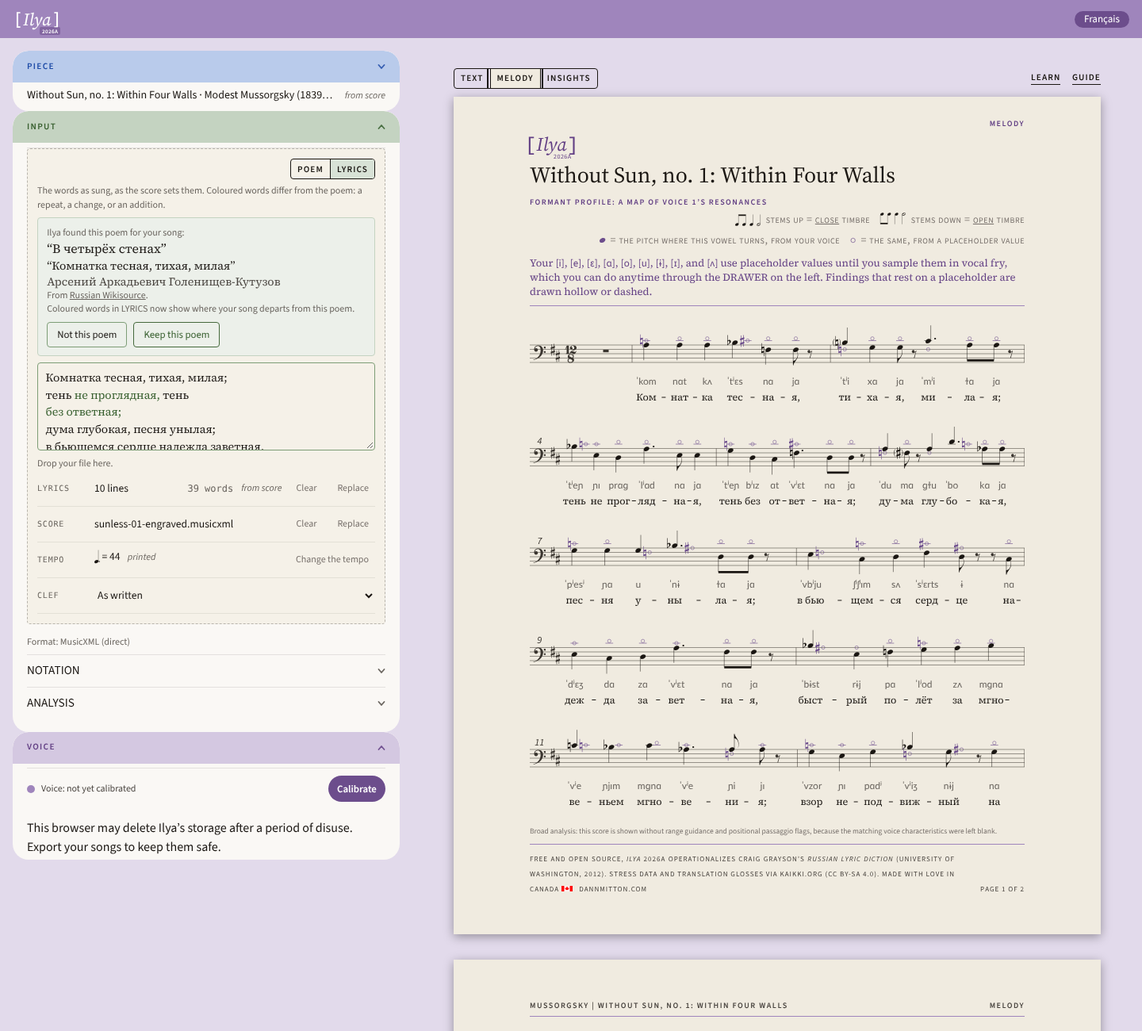
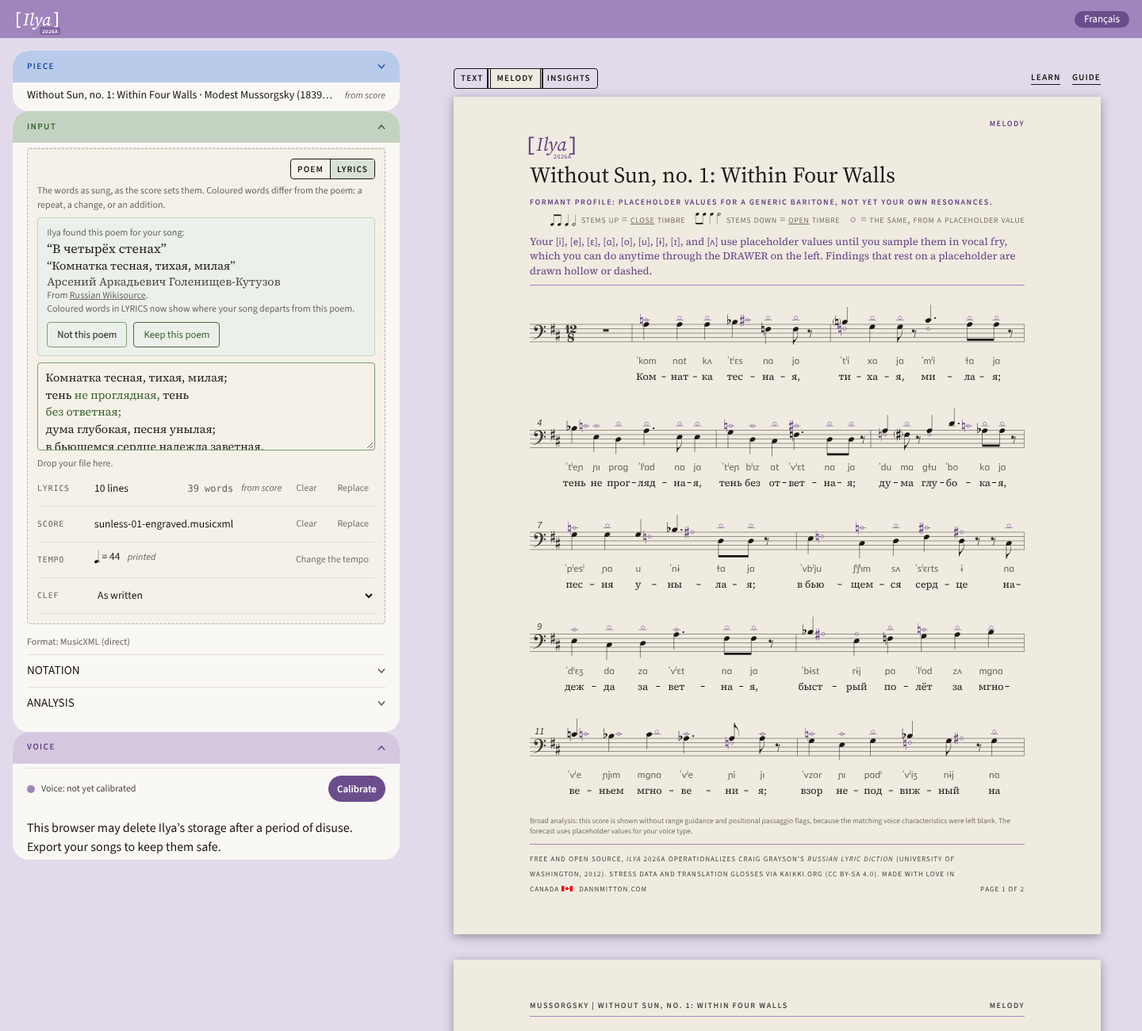
Row 166 step 6: the ratified placeholder strings, MELODY's subtitle, the legend without a filled head
Claude-Session: https://claude.ai/code/session_01Vk7wM55vdg3gcDddWTK5ME

Changed region(s): [[0.4688, 0.1846, 0.9062, 0.6769], [0.4688, 0.7077, 0.9062, 0.8]]

diff --git a/apps/web/src/lib/i18n.ts b/apps/web/src/lib/i18n.ts
@@ -16,7 +16,7 @@
    tree on 2026-11-02 (consistency batch 2). Paths are under `apps/web/src/`;
    a prefix is listed with the files that use it most and its key count.
 
-   This file holds 1,190 keys.
+   This file holds 1,191 keys.
 
    A key built at run time (`watch.key.letter.${letter}`, `comment.<register>.<part>`)
    has no literal reference, so a search for the whole key can come back empty
@@ -58,7 +58,7 @@
    paper.          4  lib/components/Paper/TitlePage.svelte, lib/components/Paper/SubsequentPage.svelte, lib/text/text-header.ts, lib/one-action.ts
    placeholder.    7  lib/analysis/placeholder-line.ts
    portrait.       2  lib/components/ReadingAid.svelte, routes/+page.svelte
-   profile.       34  lib/markup/MarkupPane.svelte, lib/markup/profile-status.ts, lib/analysis/placeholder-line.ts
+   profile.       35  lib/markup/MarkupPane.svelte, lib/markup/profile-status.ts, lib/analysis/placeholder-line.ts
    provenance.     5  no literal consumer found
    recognize.      4  routes/+page.svelte
    replace.        4  routes/+page.svelte
@@ -1021,8 +1021,8 @@ const strings: Record<string, Record<Language, string>> = {
 	// Composed from parts so EN and FR share one structure; the two-item
 	// join is language-specific (EN "a and b", FR "a ni b": "sans X ni Y").
 	'analysis.broad.body':         { en: 'Broad analysis: this score is shown without {items}, because the matching voice characteristics were left blank. The forecast still reflects your measured resonances.', fr: 'Analyse large\u00a0: cette partition est présentée sans {items}, car les caractéristiques vocales correspondantes ont été laissées vides. La prévision reflète tout de même vos résonances mesurées.' },
-	// DESK DEFAULT, UNRATIFIED (row 166): the broad note for a voice that has only placeholders, which cannot say the forecast reflects measured resonances. The sentence is the one above, less its last clause. Dann's eye.
-	'analysis.broad.body.generic': { en: 'Broad analysis: this score is shown without {items}, because the matching voice characteristics were left blank.', fr: 'Analyse large\u00a0: cette partition est présentée sans {items}, car les caractéristiques vocales correspondantes ont été laissées vides.' },
+	// RATIFIED by Dann 2026-11-10 (row 166): the broad note for a voice that has only placeholders; its last sentence says what the forecast uses.
+	'analysis.broad.body.generic': { en: 'Broad analysis: this score is shown without {items}, because the matching voice characteristics were left blank. The forecast uses placeholder values for your voice type.', fr: 'Analyse large\u00a0: cette partition est présentée sans {items}, car les caractéristiques vocales correspondantes ont été laissées vides. La prévision repose sur des valeurs par défaut pour votre type de voix.' },
 	'analysis.broad.itemRange':    { en: 'range guidance',               fr: 'les repères d\u2019ambitus' },
 	'analysis.broad.itemPassaggio': { en: 'positional passaggio flags',   fr: 'le signalement des notes de *passaggio*' },
 	'analysis.broad.join':         { en: 'and',                          fr: 'ni' },
@@ -1458,6 +1458,8 @@ const strings: Record<string, Record<Language, string>> = {
 	//    migrated verbatim from the old inline WITHHELD_COPY object) ──────
 	'profile.subtitleNamed': { en: 'Formant profile: a map of {voice}\u2019s resonances', fr: 'Profil de formants\u00a0: une carte des résonances de la voix \u00ab\u00a0{voice}\u00a0\u00bb' },
 	'profile.subtitleYours': { en: 'Formant profile: a map of your voice\u2019s resonances', fr: 'Profil de formants\u00a0: une carte des résonances de votre voix' },
+	// QUEUE row 166, RATIFIED by Dann 2026-11-10 (12:54 to 12:59): printed in place of the two above when the voice has only placeholder values (`markup/subtitle.ts`).
+	'profile.subtitlePlaceholder': { en: 'Formant profile: placeholder values for a generic {voiceType}, not yet your own resonances.', fr: 'Profil de formants\u00a0: valeurs par défaut pour le type générique {voiceType}, pas encore vos propres résonances.' },
 	'profile.count.1': { en: 'One', fr: 'Une' },
 	'profile.count.2': { en: 'Two', fr: 'Deux' },
 	'profile.count.3': { en: 'Three', fr: 'Trois' },
@@ -1854,15 +1856,15 @@ const strings: Record<string, Record<Language, string>> = {
 	'insights.footnote.tessitura': { en: 'Tessitura by Pacheco’s method: the span from the lowest to the highest pitch sung for at least half as long as the longest-sung pitch. Alberto José Vieira Pacheco, “Angelica Catalani’s Voice According to a Method of Statistical Analysis,” <em>Journal of Singing</em> 69, no. 5 (2013), p. 559.', fr: 'Tessiture selon la méthode de Pacheco\u00a0: l\u2019étendue de la hauteur la plus grave à la hauteur la plus aiguë chantée au moins la moitié du temps de la hauteur la plus longuement chantée. Alberto José Vieira Pacheco, “Angelica Catalani\u2019s Voice According to a Method of Statistical Analysis,” <em>Journal of Singing</em> 69, no. 5 (2013), p. 559. [\u00ab\u00a0La voix d\u2019Angelica Catalani selon une méthode d\u2019analyse statistique\u00a0\u00bb.]' },
 	// Printed by nothing since QUEUE row 50 (2026-10-08: Pacheco 2013 verified); kept for a future unverified source.
 	'insights.citationUnverified': { en: 'CITATION NOT YET VERIFIED',    fr: 'CITATION NON ENCORE VÉRIFIÉE' },
-	'insights.method.typed':       { en: 'Method: computed from your calibration of {date}, the voice characteristics you typed, and the score as sung, repeats taken.', fr: 'Méthode\u00a0: calculé à partir de votre calibration du {date}, des caractéristiques vocales que vous avez indiquées et de la partition telle que chantée, reprises comprises.' },
-	'insights.method.untyped':     { en: 'Method: computed from your calibration of {date} and the score as sung, repeats taken.', fr: 'Méthode\u00a0: calculé à partir de votre calibration du {date} et de la partition telle que chantée, reprises comprises.' },
+	'insights.method.typed':       { en: 'Method: computed from your calibration of {date}, the voice characteristics you typed, and the score as sung, including repeats.', fr: 'Méthode\u00a0: calculé à partir de votre calibration du {date}, des caractéristiques vocales que vous avez indiquées et de la partition telle que chantée, reprises comprises.' },
+	'insights.method.untyped':     { en: 'Method: computed from your calibration of {date} and the score as sung, including repeats.', fr: 'Méthode\u00a0: calculé à partir de votre calibration du {date} et de la partition telle que chantée, reprises comprises.' },
 	'insights.method.silent':      { en: 'Method: no voice has been measured, so nothing on this page is computed from one.', fr: 'Méthode\u00a0: aucune voix n\u2019a été mesurée, donc rien sur cette page n\u2019en est calculé.' },
-	// QUEUE row 166. RATIFIED: the lede, Dann 2026-11-09 16:13 (pinned in `ratified-lines.test.ts`). It is shown only for a
+	// QUEUE row 166. RATIFIED: the lede, Dann 2026-11-09 16:13, cut to its first sentence by Dann 2026-11-10 12:56 (pinned in `ratified-lines.test.ts`). It is shown only for a
 	// voice declared as one of five types and not calibrated (`analyze-score-adapter.ts`, `generic`); {voiceType} is the label the identity line prints.
-	'insights.generic.lede':       { en: 'These findings use placeholder values for a {voiceType}, not your specific voice. You can offer samples of your own vowels in vocal fry using Calibrate in the Voice section of the Drawer.', fr: 'Ces constats reposent sur des valeurs par défaut pour le type {voiceType}, et non sur votre voix en particulier. Vous pouvez fournir des échantillons de vos propres voyelles en friture vocale à l’aide de Calibrer, dans la section Voix du Tiroir.' },
-	// DESK DEFAULT, UNRATIFIED (row 166 step 2): the method line for those findings, which must not name a calibration or its date. Dann's eye, the French above all.
-	'insights.method.generic.typed':   { en: 'Method: computed from placeholder values for your voice type, the voice characteristics you typed, and the score as sung, repeats taken.', fr: 'Méthode\u00a0: calculé à partir de valeurs par défaut pour votre type de voix, des caractéristiques vocales que vous avez indiquées et de la partition telle que chantée, reprises comprises.' },
-	'insights.method.generic.untyped': { en: 'Method: computed from placeholder values for your voice type and the score as sung, repeats taken.', fr: 'Méthode\u00a0: calculé à partir de valeurs par défaut pour votre type de voix et de la partition telle que chantée, reprises comprises.' },
+	'insights.generic.lede':       { en: 'These findings use placeholder values for a {voiceType}, not your specific voice.', fr: 'Ces constats reposent sur des valeurs par défaut pour le type {voiceType}, et non sur votre voix en particulier.' },
+	// RATIFIED by Dann 2026-11-10 (row 166): the method line for those findings, which names no calibration and no date.
+	'insights.method.generic.typed':   { en: 'Method: computed from placeholder values for your voice type, the voice characteristics you typed, and the score as sung, including repeats.', fr: 'Méthode\u00a0: calculé à partir de valeurs par défaut pour votre type de voix, des caractéristiques vocales que vous avez indiquées et de la partition telle que chantée, reprises comprises.' },
+	'insights.method.generic.untyped': { en: 'Method: computed from placeholder values for your voice type and the score as sung, including repeats.', fr: 'Méthode\u00a0: calculé à partir de valeurs par défaut pour votre type de voix et de la partition telle que chantée, reprises comprises.' },
 	'insights.silence.unmeasured': { en: 'No voice has been measured, so this page does not compare this piece with your voice. Withheld until one is:', fr: 'Aucune voix n\u2019a été mesurée, donc cette page ne compare pas cette pièce avec votre voix. Retenu jusqu\u2019à ce qu\u2019une voix le soit\u00a0:' },
 	'insights.silence.findings':   { en: 'Any finding about where this piece may challenge your voice.', fr: 'Toute observation sur les endroits où cette pièce pourrait solliciter votre voix.' },
 	'insights.silence.noScore':    { en: 'No score has been added, so there is nothing of this piece to measure.', fr: 'Aucune partition n\u2019a été ajoutée, il n\u2019y a donc rien de cette pièce à mesurer.' },

diff --git a/apps/web/src/lib/insights/ratified-lines.test.ts b/apps/web/src/lib/insights/ratified-lines.test.ts
@@ -399,15 +399,28 @@ describe('row 97: the three ratified Guide passages are seated', () => {
 	});
 });
 
-/* QUEUE row 166. Dann, 2026-11-09 16:13: the line above INSIGHTS' findings for a voice that has only placeholders. */
-describe('row 166: the placeholder lede', () => {
-	it('English and French, character for character, the apostrophe typographic (U+2019)', () => {
-		expect(t('insights.generic.lede', 'en')).toBe(
-			'These findings use placeholder values for a {voiceType}, not your specific voice. You can offer samples of your own vowels in vocal fry using Calibrate in the Voice section of the Drawer.',
-		);
-		expect(t('insights.generic.lede', 'fr')).toBe(
-			'Ces constats reposent sur des valeurs par défaut pour le type {voiceType}, et non sur votre voix en particulier. Vous pouvez fournir des échantillons de vos propres voyelles en friture vocale à l’aide de Calibrer, dans la section Voix du Tiroir.',
-		);
-		expect(t('insights.generic.lede', 'fr')).toContain('l\u2019aide');
+/* QUEUE row 166. The strings Dann ratified 2026-11-10, 12:54 to 12:59 (the lede was cut to its first sentence at 12:56). Every French colon is
+   preceded by a no-break space (U+00A0), and the apostrophes are typographic where one occurs. */
+describe('row 166: the six ratified placeholder strings', () => {
+	it('the lede: its first sentence only, EN and FR', () => {
+		expect(t('insights.generic.lede', 'en')).toBe('These findings use placeholder values for a {voiceType}, not your specific voice.');
+		expect(t('insights.generic.lede', 'fr')).toBe('Ces constats reposent sur des valeurs par défaut pour le type {voiceType}, et non sur votre voix en particulier.');
+	});
+	it('the MELODY subtitle for a placeholder voice', () => {
+		expect(t('profile.subtitlePlaceholder', 'en')).toBe('Formant profile: placeholder values for a generic {voiceType}, not yet your own resonances.');
+		expect(t('profile.subtitlePlaceholder', 'fr')).toBe('Profil de formants\u00a0: valeurs par défaut pour le type générique {voiceType}, pas encore vos propres résonances.');
+	});
+	it('the method lines: the two placeholder forms, and "including repeats" in the two calibrated forms (French unchanged)', () => {
+		expect(t('insights.method.generic.typed', 'en')).toBe('Method: computed from placeholder values for your voice type, the voice characteristics you typed, and the score as sung, including repeats.');
+		expect(t('insights.method.generic.untyped', 'en')).toBe('Method: computed from placeholder values for your voice type and the score as sung, including repeats.');
+		expect(t('insights.method.generic.typed', 'fr')).toBe('Méthode\u00a0: calculé à partir de valeurs par défaut pour votre type de voix, des caractéristiques vocales que vous avez indiquées et de la partition telle que chantée, reprises comprises.');
+		expect(t('insights.method.generic.untyped', 'fr')).toBe('Méthode\u00a0: calculé à partir de valeurs par défaut pour votre type de voix et de la partition telle que chantée, reprises comprises.');
+		expect(t('insights.method.typed', 'en')).toBe('Method: computed from your calibration of {date}, the voice characteristics you typed, and the score as sung, including repeats.');
+		expect(t('insights.method.untyped', 'en')).toBe('Method: computed from your calibration of {date} and the score as sung, including repeats.');
+		expect(t('insights.method.typed', 'fr')).toContain('reprises comprises.');
+	});
+	it('the broad note for a placeholder voice', () => {
+		expect(t('analysis.broad.body.generic', 'en')).toBe('Broad analysis: this score is shown without {items}, because the matching voice characteristics were left blank. The forecast uses placeholder values for your voice type.');
+		expect(t('analysis.broad.body.generic', 'fr')).toBe('Analyse large\u00a0: cette partition est présentée sans {items}, car les caractéristiques vocales correspondantes ont été laissées vides. La prévision repose sur des valeurs par défaut pour votre type de voix.');
 	});
 });

diff --git a/apps/web/src/lib/markup/MarkupPane.svelte b/apps/web/src/lib/markup/MarkupPane.svelte
@@ -93,6 +93,7 @@
 	import { resolveAdvice } from '$lib/analysis/advice-resolver';
 	import { buildVoiceProfileSnapshot, composeBroadNote, isBroadAnalysis } from '$lib/analysis/analyze-score-adapter';
 	import { placeholderLine, placeholderVowels } from '$lib/analysis/placeholder-line';
+	import { profileSubtitle } from './subtitle';
 	import { loadNotationFont, type LoadedNotationFont } from '$lib/score/notation-fonts';
 	import { drawCrossingRings, selectionAnchor } from '$lib/score/crossing-ring';
 	import { entryGroup, RING_RADIUS, ringBox } from '$lib/score/selection-ring';
@@ -141,7 +142,7 @@
 		composer?: string;
 		poet?: string;
 		/** The declared voice type, which picks the stand-in vowels' starting staff (QUEUE row 17). */
-		voiceType?: string;
+		voiceType?: string; voiceTypeChoice?: import('$lib/voice/profileStore').VoiceTypeChoice;
 		/**
 		 * Engraving preferences from the drawer panel (Dann's ruling,
 		 * 2026-07-13). Defaults to the Appendix-derived values so the
@@ -283,7 +284,7 @@
 		scoreTitle = undefined,
 		composer = '',
 		poet = '',
-		voiceType = undefined,
+		voiceType = undefined, voiceTypeChoice = undefined,
 		engraving = ENGRAVING_DEFAULTS,
 		onrendered = undefined,
 		onpagesdrawn = undefined,
@@ -432,11 +433,6 @@
 	// rendered "de Voix 1's" in French. The guillemets in the French also
 	// dodge elision: a bare "de {voice}" breaks on a vowel-initial name
 	// ("d’Anne", not "de Anne"). Dann's ruling, 2026-08-11.
-	const subtitle = $derived(
-		voiceName
-			? T('profile.subtitleNamed').replace('{voice}', voiceName)
-			: T('profile.subtitleYours'),
-	);
 
 	// The roster's canonical display order (wizard spec v1 §2: the seven
 	// defaults in the fixed counterclockwise order, then the three optional
@@ -551,6 +547,8 @@
 	// analyzeScore omits every event, so the plain vocal line renders, no
 	// acoustic claim made.
 	const adapted = $derived(buildVoiceProfileSnapshot(formants, characteristics, voiceName, undefined, voiceType));
+	// The subtitle (see the N.22 note above, which still governs the two named forms; `subtitle.ts`) reads `adapted`, so it sits after it.
+	const subtitle = $derived(profileSubtitle({ generic: adapted.generic, voiceName, voiceType: voiceTypeChoice, language }));
 
 	/**
 	 * The vowels the FORECAST reads, which is not the same as the vowels that
@@ -807,7 +805,7 @@
 	// needs a note with a timbre analysis, so it sits here, after both.
 	// Row 78b: the turning-head entries; the hollow one only when a placeholder head is drawn.
 	const hollowHeads = $derived(!!analyzed && Object.values(analyzed.events).some((e) => e.placeholder));
-	let markupLegend = $derived(buildMarkupLegend(language, { withheldSyllables: !!withheldIpa, stems: hasAcousticMarks, turningHeads: hasAcousticMarks, hollowHeads }));
+	let markupLegend = $derived(buildMarkupLegend(language, { withheldSyllables: !!withheldIpa, stems: hasAcousticMarks, turningHeads: hasAcousticMarks, hollowHeads, filledHeads: !adapted.generic }));
 	const showBroadNote = $derived(hasAcousticMarks && isBroadAnalysis(adapted.completeness));
 
 	// ── Item 1.8, the withheld statement (2026-08-05) ─────────────────────

diff --git a/apps/web/src/lib/analysis/analyze-score-adapter.test.ts b/apps/web/src/lib/analysis/analyze-score-adapter.test.ts
@@ -452,8 +452,8 @@ describe('composeBroadNote (§B.5 print legend)', () => {
 
 	it('row 166: a placeholder voice gets the note without the sentence about measured resonances', () => {
 		const c = { formants: true, range: false, tessitura: true, passaggio: false };
-		expect(composeBroadNote(c, 'en', true)).toBe('Broad analysis: this score is shown without range guidance and positional passaggio flags, because the matching voice characteristics were left blank.');
-		expect(composeBroadNote(c, 'fr', true)).toBe('Analyse large\u00a0: cette partition est présentée sans les repères d’ambitus ni le signalement des notes de *passaggio*, car les caractéristiques vocales correspondantes ont été laissées vides.');
+		expect(composeBroadNote(c, 'en', true)).toBe('Broad analysis: this score is shown without range guidance and positional passaggio flags, because the matching voice characteristics were left blank. The forecast uses placeholder values for your voice type.');
+		expect(composeBroadNote(c, 'fr', true)).toBe('Analyse large\u00a0: cette partition est présentée sans les repères d’ambitus ni le signalement des notes de *passaggio*, car les caractéristiques vocales correspondantes ont été laissées vides. La prévision repose sur des valeurs par défaut pour votre type de voix.');
 		for (const lang of ['en', 'fr'] as const) expect(composeBroadNote(c, lang, true)).not.toMatch(/measured|mesur/);
 		expect(composeBroadNote(full, 'en', true)).toBe('');
 	});

diff --git a/apps/web/src/lib/markup/legend.ts b/apps/web/src/lib/markup/legend.ts
@@ -103,11 +103,13 @@ const MARKUP_WITHHELD_COPY: Record<Language, string> = {
  *
  * The filled turning-head entry shows whenever the page draws a turning head
  * (`turningHeads`, the stems entries' condition); the hollow one only when at
- * least one is hollow (`hollowHeads`, DESK DEFAULT).
+ * least one is hollow (`hollowHeads`, DESK DEFAULT). `filledHeads`, default true, is false where every head is a
+ * placeholder (`AdaptedProfile.generic`, row 166, Fable's amendment 39-5): no filled head is drawn, so its entry
+ * ("from your voice") is left out.
  */
 export function buildMarkupLegend(
 	language: Language,
-	options: { withheldSyllables?: boolean; stems?: boolean; turningHeads?: boolean; hollowHeads?: boolean } = {}
+	options: { withheldSyllables?: boolean; stems?: boolean; turningHeads?: boolean; hollowHeads?: boolean; filledHeads?: boolean } = {}
 ): LegendItem[] {
 	const items: LegendItem[] = [];
 	if (options.stems) {
@@ -123,7 +125,8 @@ export function buildMarkupLegend(
 		}
 	}
 	if (options.turningHeads) {
-		for (const head of options.hollowHeads ? (['filled', 'hollow'] as const) : (['filled'] as const)) {
+		const filled = options.filledHeads !== false;
+		for (const head of [...(filled ? ['filled' as const] : []), ...(options.hollowHeads ? ['hollow' as const] : [])]) {
 			items.push({
 				type: head === 'filled' ? MARKUP_TURN_FILLED_TYPE : MARKUP_TURN_HOLLOW_TYPE,
 				icon: 'head',

diff --git a/apps/web/src/lib/markup/legend.test.ts b/apps/web/src/lib/markup/legend.test.ts
@@ -102,6 +102,14 @@ describe('the turning-head entries (QUEUE row 78b)', () => {
 		expect(buildMarkupLegend('en', { stems: false, turningHeads: false, hollowHeads: true })).toEqual([]);
 	});
 
+	it('row 166, amendment 39-5: with no filled head on the page the "from your voice" entry is left out; the default keeps it', () => {
+		const generic = buildMarkupLegend('en', { stems: true, turningHeads: true, hollowHeads: true, filledHeads: false });
+		expect(generic.filter((i) => i.head).map((i) => i.head)).toEqual(['hollow']);
+		expect(generic.map((i) => i.type)).not.toContain(MARKUP_TURN_FILLED_TYPE);
+		expect(buildMarkupLegend('en', { turningHeads: true, hollowHeads: true, filledHeads: true }).filter((i) => i.head).map((i) => i.head)).toEqual(['filled', 'hollow']);
+		expect(buildMarkupLegend('en', { turningHeads: true, hollowHeads: true }).filter((i) => i.head).map((i) => i.head)).toEqual(['filled', 'hollow']);
+	});
+
 	it('says what Dann ratified at 20:01, in both languages, the apostrophes typographic', () => {
 		const label = (language: 'en' | 'fr') => buildMarkupLegend(language, { turningHeads: true, hollowHeads: true }).map((i) => i.label);
 		expect(label('en')).toEqual(['= the pitch where this vowel turns, from your voice', '= the same, from a placeholder value']);

diff --git a/apps/web/src/lib/markup/subtitle.test.ts b/apps/web/src/lib/markup/subtitle.test.ts
@@ -1,0 +1,14 @@
+import { describe, expect, it } from 'vitest';
+import { profileSubtitle } from './subtitle';
+
+describe('row 166: MELODY\'s subtitle', () => {
+	it('a placeholder voice prints the ratified subtitle with the identity line\'s label, EN and FR', () => {
+		expect(profileSubtitle({ generic: true, voiceName: 'Voice 1', voiceType: { voiceType: 'baritone' }, language: 'en' })).toBe('Formant profile: placeholder values for a generic baritone, not yet your own resonances.');
+		expect(profileSubtitle({ generic: true, voiceName: 'Voice 1', voiceType: { voiceType: 'baritone' }, language: 'fr' })).toBe('Profil de formants\u00a0: valeurs par défaut pour le type générique baryton, pas encore vos propres résonances.');
+	});
+	it('any other voice keeps the two old subtitles', () => {
+		expect(profileSubtitle({ generic: false, voiceName: 'Dann', voiceType: { voiceType: 'baritone' }, language: 'en' })).toBe('Formant profile: a map of Dann\u2019s resonances');
+		expect(profileSubtitle({ generic: false, language: 'en' })).toBe('Formant profile: a map of your voice\u2019s resonances');
+		expect(profileSubtitle({ generic: true, voiceName: 'Dann', language: 'en' })).toBe('Formant profile: a map of Dann\u2019s resonances');
+	});
+});

diff --git a/apps/web/src/lib/insights/identity.test.ts b/apps/web/src/lib/insights/identity.test.ts
@@ -86,10 +86,10 @@ describe('row 166: the identity head of a placeholder voice', () => {
 		];
 		for (const [id, en, fr] of labels) {
 			expect(genericLede(true, { voiceType: id }, 'en')).toBe(
-				`These findings use placeholder values for a ${en}, not your specific voice. You can offer samples of your own vowels in vocal fry using Calibrate in the Voice section of the Drawer.`,
+				`These findings use placeholder values for a ${en}, not your specific voice.`,
 			);
 			expect(genericLede(true, { voiceType: id }, 'fr')).toBe(
-				`Ces constats reposent sur des valeurs par défaut pour le type ${fr}, et non sur votre voix en particulier. Vous pouvez fournir des échantillons de vos propres voyelles en friture vocale à l’aide de Calibrer, dans la section Voix du Tiroir.`,
+				`Ces constats reposent sur des valeurs par défaut pour le type ${fr}, et non sur votre voix en particulier.`,
 			);
 		}
 		expect(genericLede(false, { voiceType: 'baritone' }, 'en')).toBeNull();

diff --git a/apps/web/src/lib/markup/subtitle.ts b/apps/web/src/lib/markup/subtitle.ts
@@ -1,0 +1,14 @@
+/**
+ * MELODY's page subtitle (QUEUE row 166, RATIFIED by Dann 2026-11-10 12:54 to 12:59). A voice that has only
+ * placeholder values (`AdaptedProfile.generic`) is not given "a map of <voice>'s resonances": it says whose
+ * values these are. `{voiceType}` is the label the identity line prints (`voiceTypePrint`).
+ */
+import { t, type Language } from '$lib/i18n';
+import type { VoiceTypeChoice } from '$lib/voice/profileStore';
+import { voiceTypePrint } from '$lib/voice/voiceTypes';
+
+export function profileSubtitle(o: { generic: boolean; voiceName?: string; voiceType?: VoiceTypeChoice; language: Language }): string {
+	const label = o.generic ? voiceTypePrint(o.voiceType, o.language) : undefined;
+	if (label) return t('profile.subtitlePlaceholder', o.language).replace('{voiceType}', label);
+	return o.voiceName ? t('profile.subtitleNamed', o.language).replace('{voice}', o.voiceName) : t('profile.subtitleYours', o.language);
+}

diff --git a/apps/web/src/routes/+page.svelte b/apps/web/src/routes/+page.svelte
@@ -4401,7 +4401,7 @@ import TextSourceLine from '$lib/components/TextSourceLine.svelte';
 				characteristics={voiceCharacteristics}
 				{language}
 				ingested={correctedScore}
-				scoreTitle={doc.metadata.title} composer={doc.metadata.composer} poet={doc.metadata.poet} voiceType={voiceTypeChoice?.voiceType}
+				scoreTitle={doc.metadata.title} composer={doc.metadata.composer} poet={doc.metadata.poet} voiceType={voiceTypeChoice?.voiceType} voiceTypeChoice={voiceTypeChoice}
 				{engraving}
 				{notationPrefs}
 				openSyllabification={doc.openSyllabification}

diff --git a/docs/sessions/report-code-row166-step6_r1_2026-11-10.md b/docs/sessions/report-code-row166-step6_r1_2026-11-10.md
@@ -1,0 +1,45 @@
+# Report: row 166, step 6, the ratified strings and the legend (Code, cloud lane, r1, 2026-11-10)
+
+Branch `cloud-lane-39`. Strings ratified by Dann 2026-11-10 12:54 to 12:59, and Fable 5.2's amendments 39-1, 39-3, 39-5. `origin/cloud-lane-38` was fetched at the start and is already merged. Every French colon below is written ` :` in `i18n.ts`.
+
+## What changed
+
+- **(a) `profile.subtitlePlaceholder`** (new key), EN "Formant profile: placeholder values for a generic {voiceType}, not yet your own resonances." FR « Profil de formants : valeurs par défaut pour le type générique {voiceType}, pas encore vos propres résonances. » Printed in place of the two old subtitles when `adapted.generic`. The choice is made in a new pure module, `markup/subtitle.ts` (`profileSubtitle`), which takes the label from `voiceTypePrint`, as INSIGHTS' lede does. `MarkupPane` gets a new prop `voiceTypeChoice` (the whole `VoiceTypeChoice`; `+page.svelte` passes `voiceTypeChoice`), because the existing `voiceType` prop is only the Tier 1 id and carries no label. `MarkupPane.svelte` is 1362 lines against its ceiling of 1364, `+page.svelte` unchanged in length.
+- **(b)** `insights.generic.lede` keeps its first sentence only, both languages; pin updated.
+- **(c)** `insights.method.generic.typed` and `.untyped`: EN "including repeats" (French unchanged); `insights.method.typed` and `.untyped`: EN "repeats taken" becomes "including repeats" (French unchanged).
+- **(d)** `analysis.broad.body.generic` gains its last sentence, EN "The forecast uses placeholder values for your voice type." FR « La prévision repose sur des valeurs par défaut pour votre type de voix. »
+- **(e)** The three DESK DEFAULT, UNRATIFIED comments in `i18n.ts` now say RATIFIED by Dann 2026-11-10; all six strings are pinned in `insights/ratified-lines.test.ts` ("row 166: the six ratified placeholder strings", with the two calibrated method lines' EN and the unchanged FR check, and ` ` before each French colon). The i18n key index is 1,191 keys, `profile.` 35.
+- **(f) Amendment 39-5:** `buildMarkupLegend` takes `filledHeads?: boolean`, default true; where false it leaves out the filled "from your voice" entry. `MarkupPane` passes `filledHeads: !adapted.generic`. Tests in `legend.test.ts` (false: only the hollow entry; true and default: both) and `markup/subtitle.test.ts` (new).
+
+I also updated the two existing tests that asserted the old lede and old broad note (`identity.test.ts`, `analyze-score-adapter.test.ts`).
+
+## Screenshots (generic baritone, first visit, no stored data)
+
+In `docs/sessions/row166-screens_2026-11-09/`, replacing the step 4 ones of the same name: `baritone-insights-en.png`, `baritone-melody-en.png`, `baritone-insights-fr.png`, `baritone-melody-fr.png` (plus the `-raw` MELODY pair, taken before the clef chooser is dismissed). What they show, read from the page text and the images:
+- MELODY EN: "FORMANT PROFILE: PLACEHOLDER VALUES FOR A GENERIC BARITONE, NOT YET YOUR OWN RESONANCES."; the legend lists the stems and only "= the same, from a placeholder value" (no filled head); the footer broad note ends "The forecast uses placeholder values for your voice type."
+- MELODY FR: « PROFIL DE FORMANTS : VALEURS PAR DÉFAUT POUR LE TYPE GÉNÉRIQUE BARYTON, PAS ENCORE VOS PROPRES RÉSONANCES. », the legend likewise, the broad note ending with the ratified French sentence.
+- INSIGHTS EN: the lede is now one sentence ("These findings use placeholder values for a baritone, not your specific voice."), then the placeholder line. INSIGHTS FR: « APERÇUS POUR VOICE 1 · BARYTON · SANS CALIBRATION ».
+- Taken before I moved one line in `MarkupPane` (below); the page's behaviour is the same, and the gates after the move are green.
+
+## Gates, against the start of step 6 (the end of step 5)
+
+| Gate | Result |
+| --- | --- |
+| 1 phonology | 456 passed, as before |
+| 2 dictionary | 248 passed, as before |
+| 3 web check | 0 errors, 12 warnings, as before (see "One fix" below) |
+| 4 web tests | 258 files, 4741 passed, 1 skipped (was 257 and 4735: the new tests) |
+| 5 score-parser | 785 passed, 5 skipped, as before |
+| 6 blurb | 168 passed |
+| 7 integration | 125 passed |
+| 8 ratchets | OK, no ceiling touched |
+
+Playwright was not run (not asked).
+
+**One fix.** My first version put the `subtitle` derived where the old one stood, before `adapted` is declared; `svelte-check` failed (2 errors, "used before its declaration"). I moved the one line to just after `adapted`, with a one-line note; it is the only change after the first gate run.
+
+## What Code could not establish
+
+- **The French subtitle is cut off on screen.** At 1440 wide the French MELODY subtitle ends "PAS ENCORE VOS PROPRE…" with an ellipsis; the ratified sentence is longer than the header line allows once the legend shares it. The English fits. I did not change the string (it is ratified) or the header layout (out of this brief). It wants a ruling: a shorter French, or a header that wraps this line. Phone width was not looked at.
+- **Print rendering** of the new subtitle and legend is not seen.
+- **The English "a generic {voiceType}"** takes "a" before any label; for a finer label starting with a vowel sound it would read wrongly ("a generic octavist" is fine, "a generic Other text" depends on the text). Not changed.
